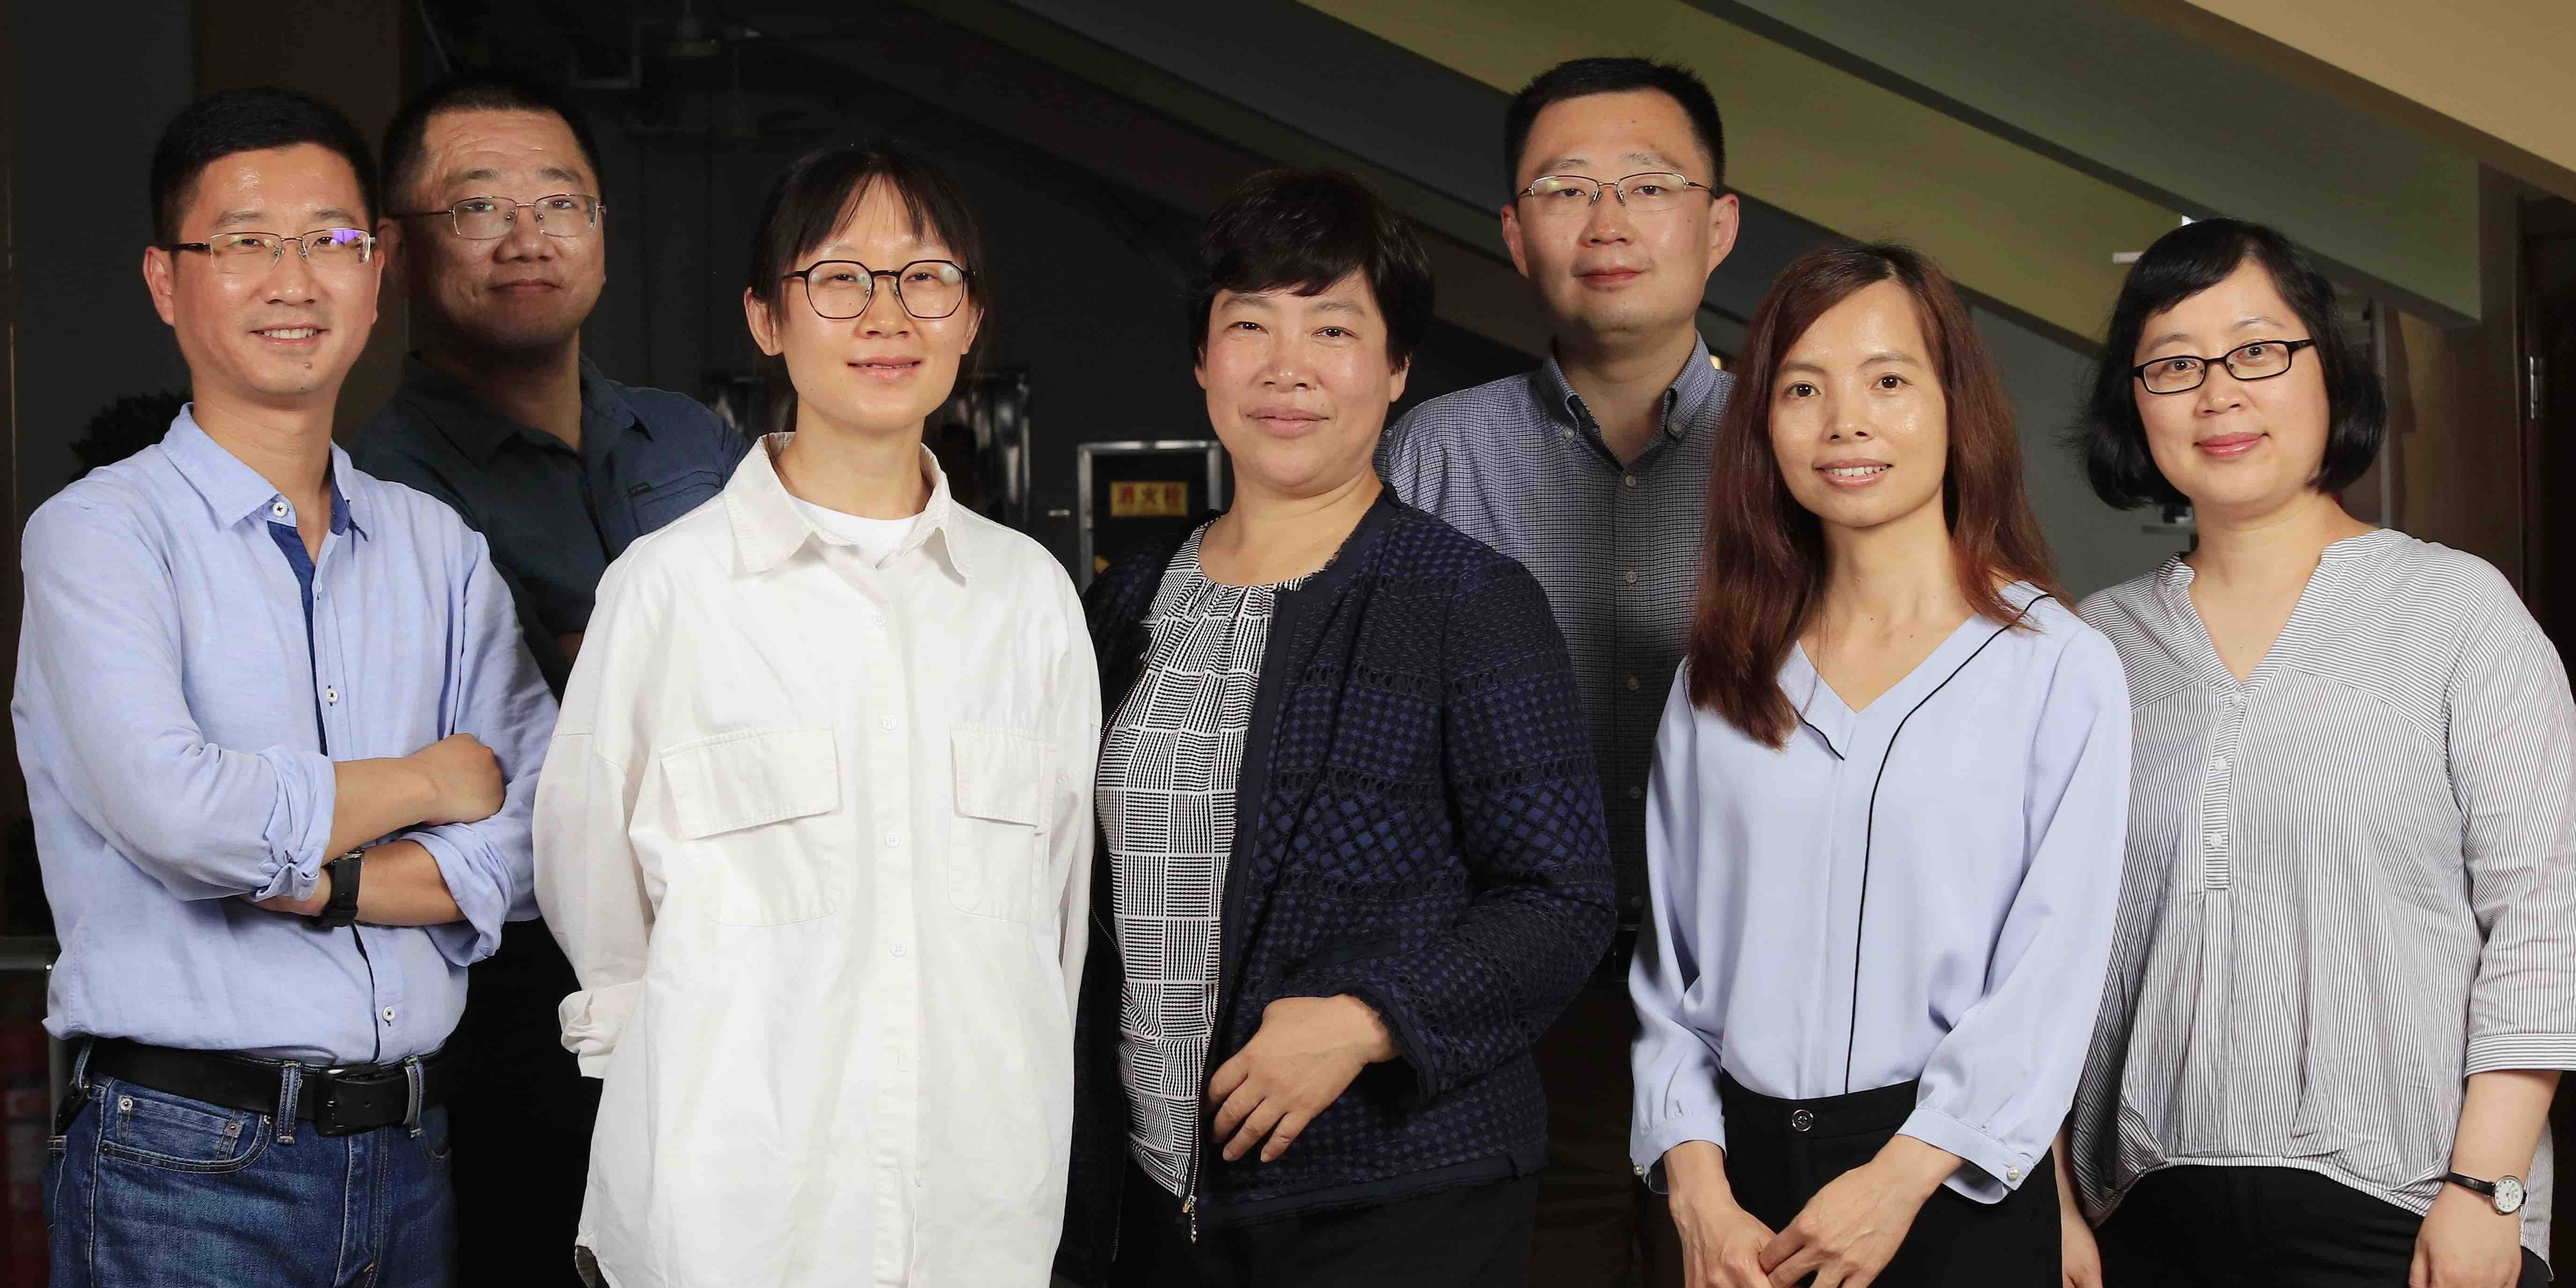
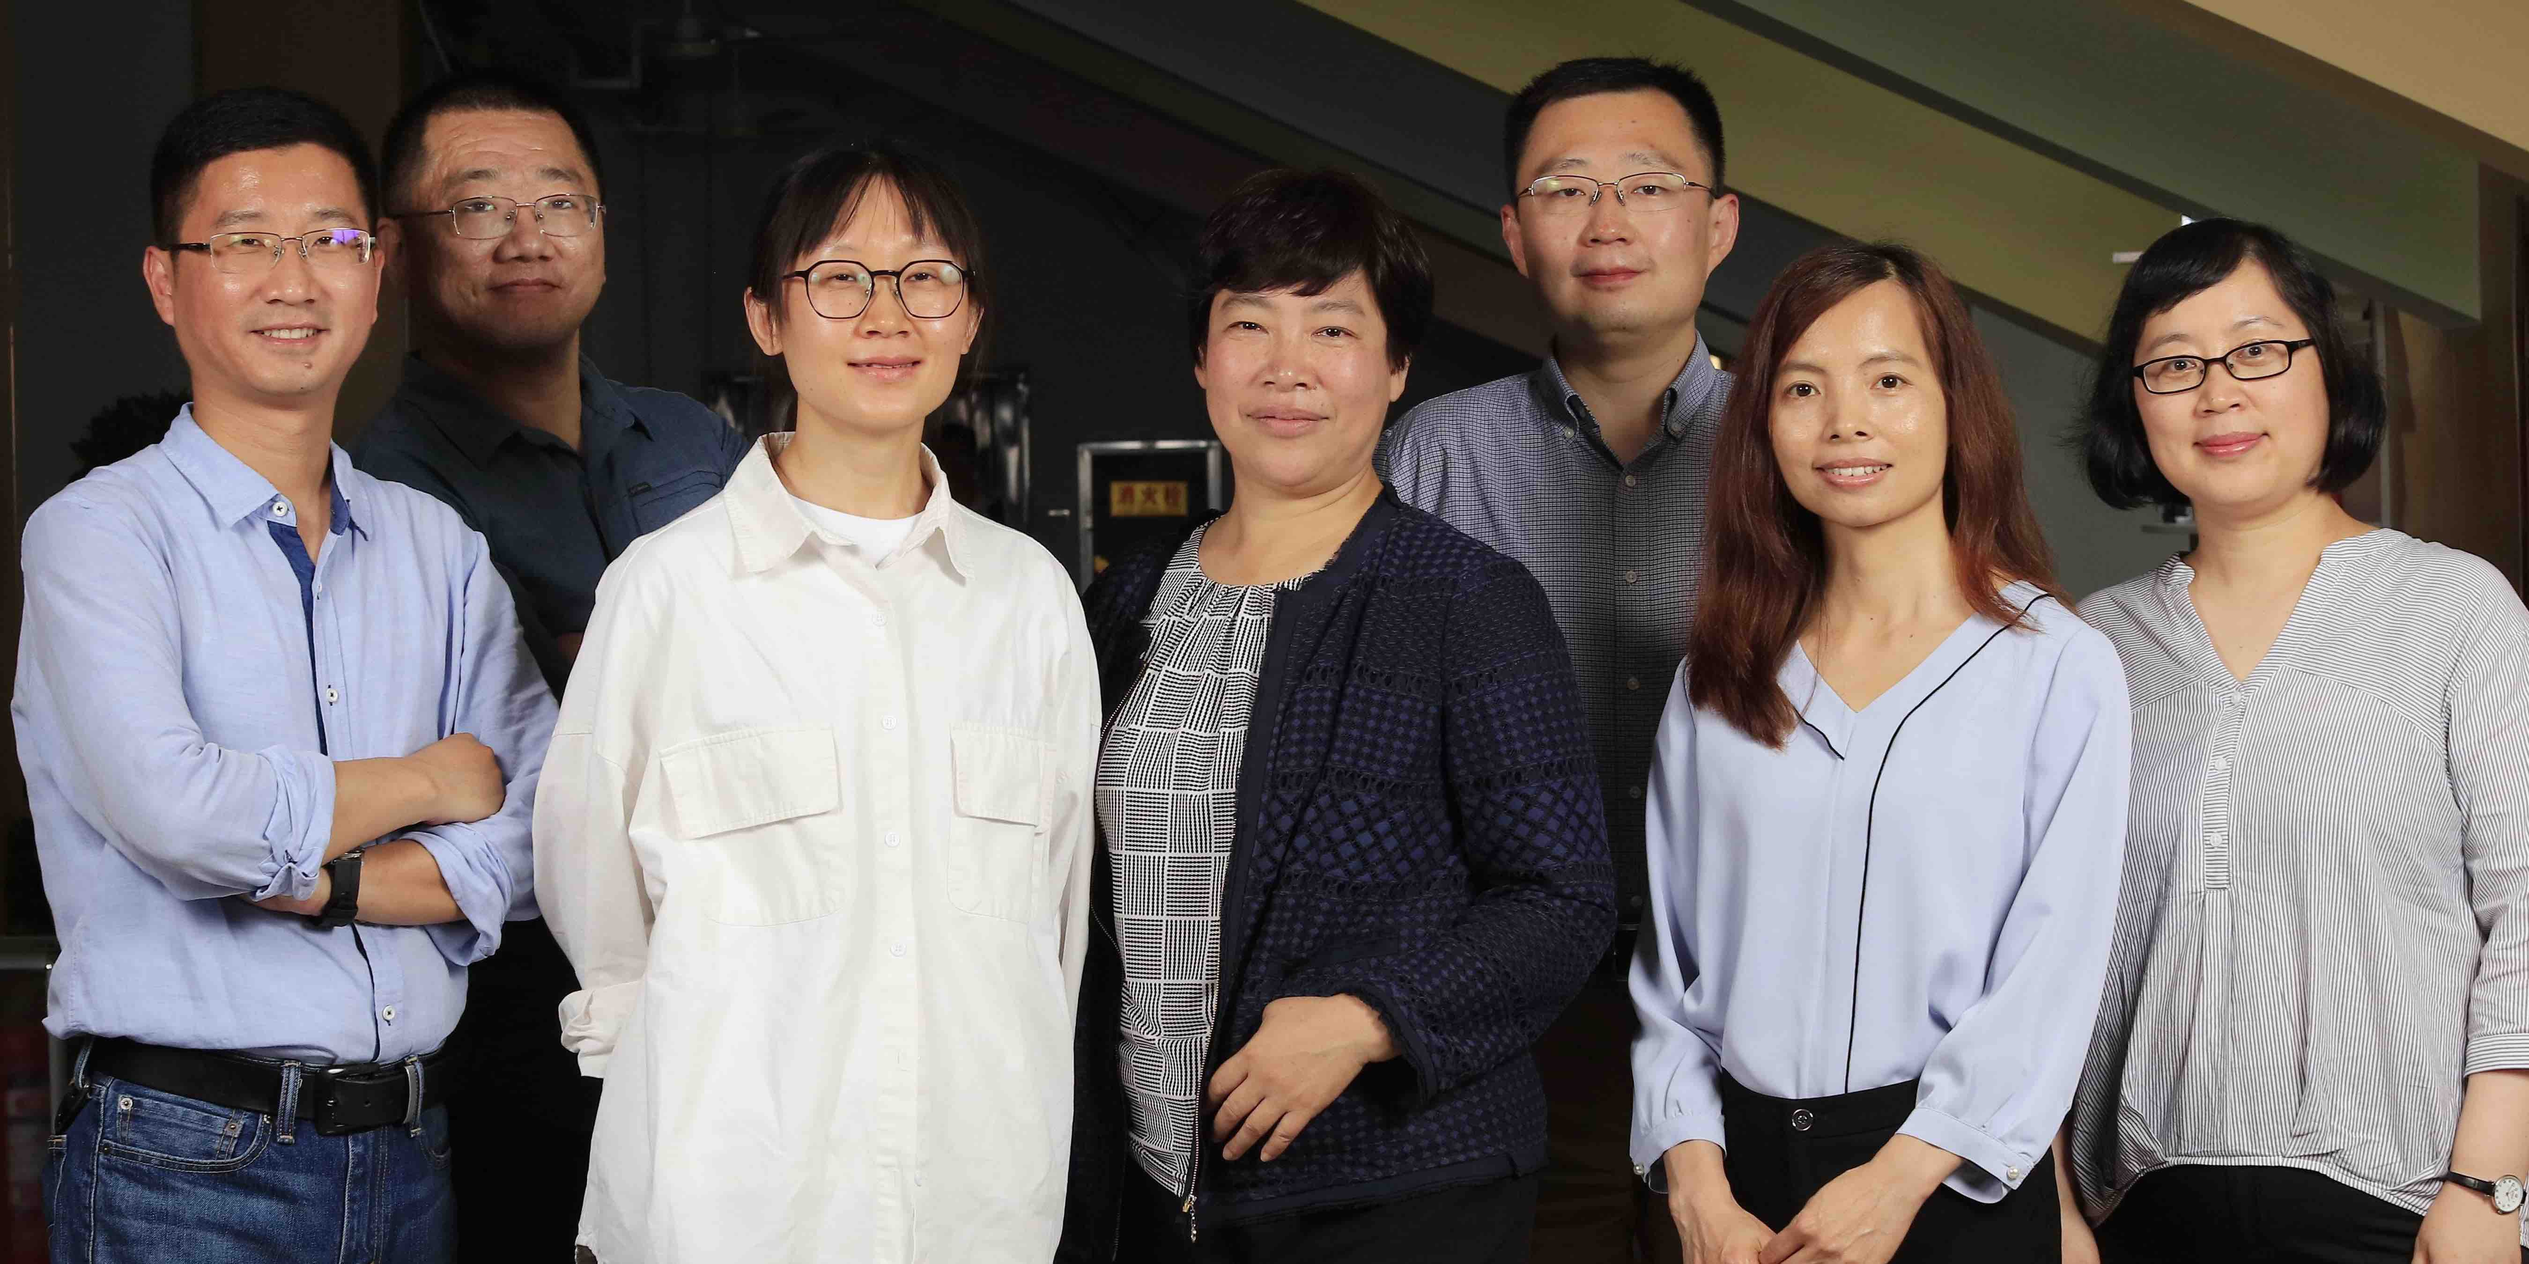
Update team pic

diff --git a/_pages/home.md b/_pages/home.md
@@ -24,7 +24,7 @@ permalink: /
     <!-- Items -->
     <div class="carousel-inner" markdown="0">
         <div class="item active">
-            <img src="{{ site.url }}{{ site.baseurl }}/images/slider7001400/slide_team.jpg" alt="Slide 1" />
+            <img src="{{ site.url }}{{ site.baseurl }}/images/slider7001400/slide_teamopt.jpg" alt="Slide 1" />
         </div>
         <div class="item">
             <img src="{{ site.url }}{{ site.baseurl }}/images/slider7001400/slide_huawei2.jpg" alt="Slide 2" />
